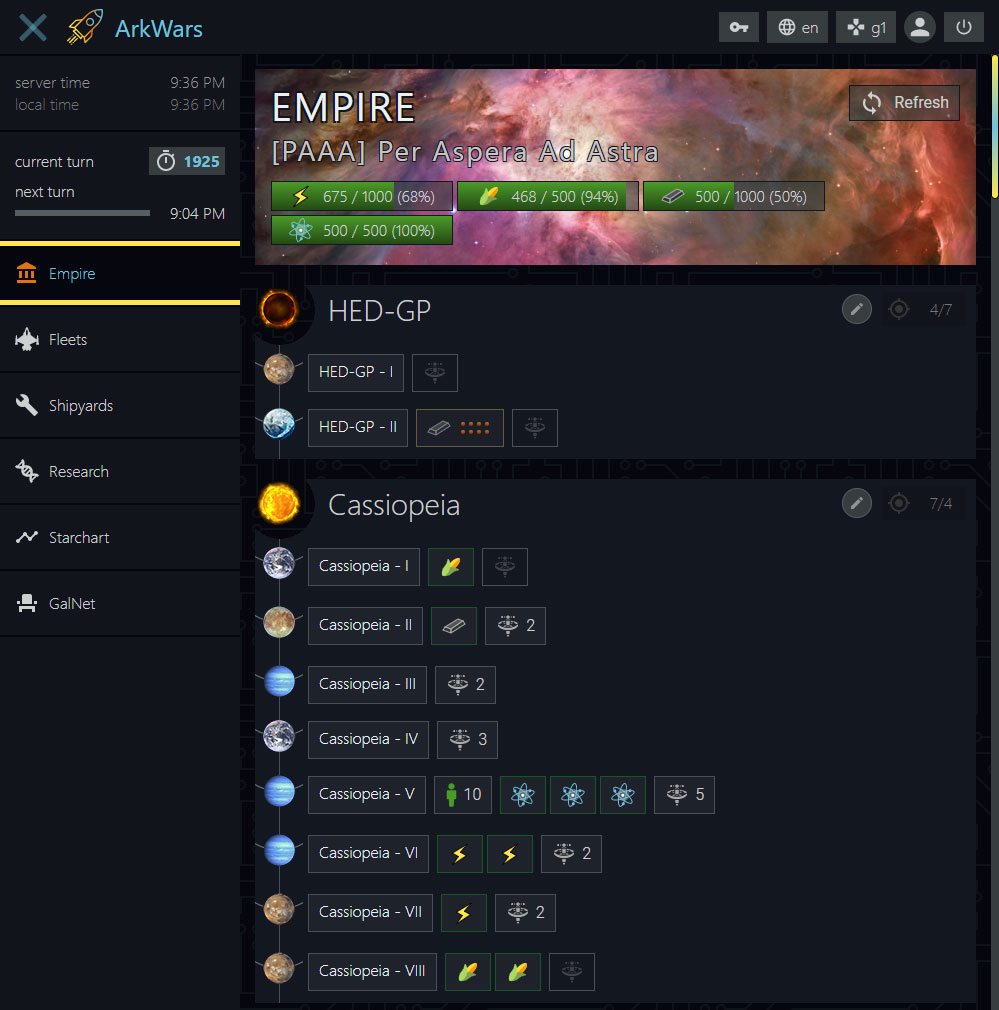
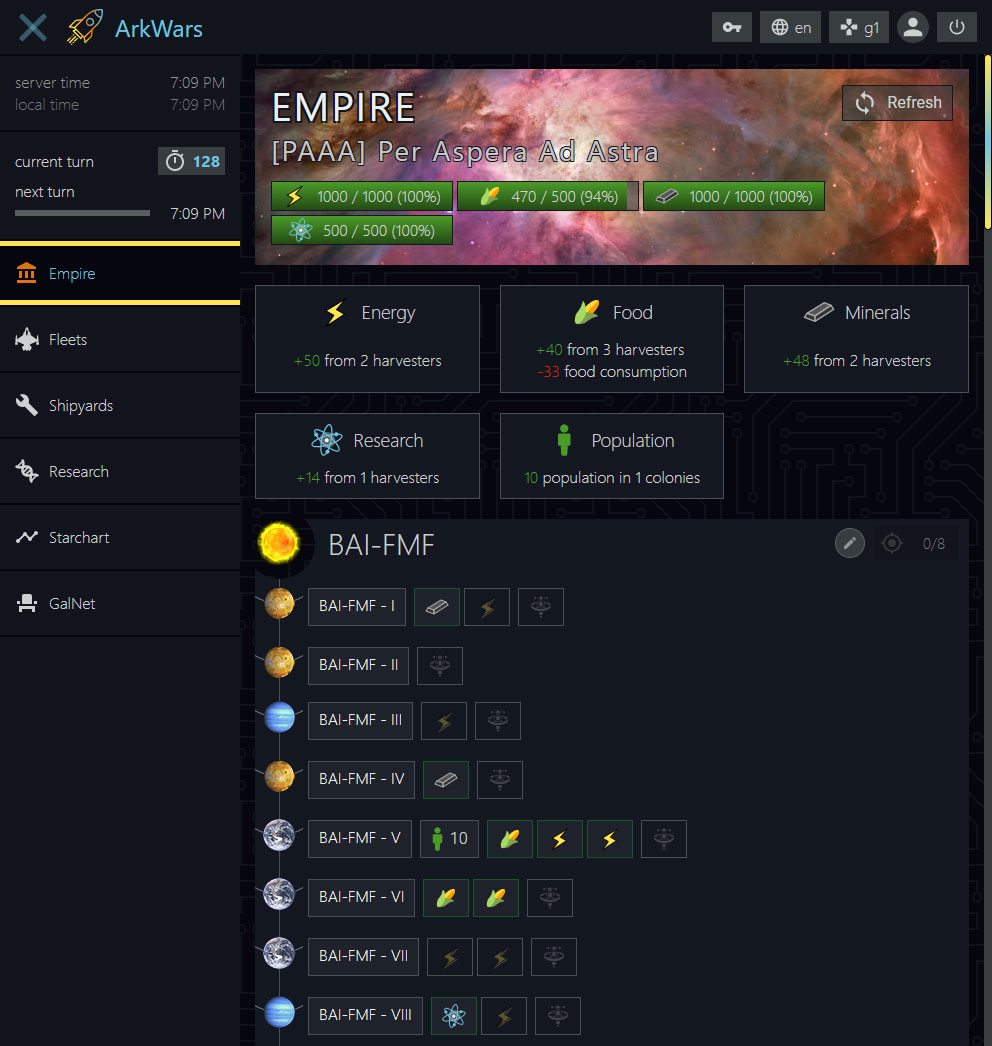
added starting colony population to the planet with the most resources: - when a player enlists to a game - `db.seed` and `db.reseed`

diff --git a/internals/npm/db.seed.js b/internals/npm/db.seed.js
@@ -32,7 +32,8 @@ const map = require("../mockdata/mapData");
 const stars = map.stars;
 const planets = map.planets;
 let playerHomeSystems = [];
-
+let pdus = [];
+let harvesters = [];
 
 /*
  * seed database with mock json data
@@ -69,27 +70,17 @@ const seedDatabase = async () => {
  * since maxplayers are determined by available homeSystems (which depends on size and distance)
  * we need to assign them now that stars have been created
  */
-logger.info(
-    `[node] modifying maxplayers for ${chalk.red(games.length)} Games.`
-);
+logger.info(`[node] modifying maxplayers for ${chalk.red(games.length)} Games.`);
 games.forEach(game => {
-    let gameStars = stars.filter(
-        star => star.homeSystem && star.game === game._id
-    );
+    let gameStars = stars.filter(star => star.homeSystem && star.game === game._id);
     game.maxPlayers = gameStars.length;
-    logger.info(
-        `game ${chalk.red("g" + game.number)} set to ${chalk.yellow(
-            gameStars.length
-        )} maxplayers`
-    );
+    logger.info(`game ${chalk.red("g" + game.number)} set to ${chalk.yellow(gameStars.length)} maxplayers`);
 });
 
 /*
  * assign homeSystems to players. this is normally done during enlisting.
  */
-logger.info(
-    `[node] selecting homesystems for ${chalk.red(players.length)} Players.`
-);
+logger.info(`[node] selecting homesystems for ${chalk.red(players.length)} Players.`);
 players.forEach(player => {
     // available stars as homesystem have
     const gameStars = stars.filter(
@@ -101,67 +92,30 @@ players.forEach(player => {
     const homeSystem = seed.assignRandomStar(gameStars);
     playerHomeSystems.push(homeSystem);
     logger.info(
-        `[node] chosen Star ${chalk.yellow(
-            homeSystem.name
-        )} for player ${chalk.red("[" + player.ticker + "]")} ${chalk.cyan(
-            player.name
-        )}`
+        `[node] chosen Star ${chalk.yellow(homeSystem.name)} for player ${chalk.red(
+            "[" + player.ticker + "]"
+        )} ${chalk.cyan(player.name)}`
     );
-    stars.forEach( function(star) {
-        if (
-            player.game === star.game &&
-            star._id === homeSystem._id
-        ) {
+    stars.forEach(function(star) {
+        if (player.game === star.game && star._id === homeSystem._id) {
             star.owner = player._id;
         }
     });
 });
 
-
 /*
- * add random harvesters for testing purposes
+ * add colony to player home systems
  */
-let harvesters = [];
-let pdus = [];
-//playerHomeSystems.forEach( star => {
-//    let starPlanets = planets.filter( planet => planet.star === star._id && planet.resources.length);
-//    const numHarvesters = Math.floor(starPlanets.length / 2);
-//    for (let i = 0; i < numHarvesters; i++ ) {
-//        const randomIndex = Math.floor(Math.random() * starPlanets.length);
-//        const randomPlanet = starPlanets[randomIndex];
-//        let harvester = {
-//            planet: randomPlanet._id,
-//            game: randomPlanet.game,
-//            owner: star.owner,
-//            resourceType: randomPlanet.resources[0].resourceType,
-//            turnsUntilComplete: Math.random() > 0.4 ? 0 : Math.floor(Math.random() * 6)
-//        };
-//        logger.info(`[mockdata] created ${chalk.red(harvester.resourceType)} harvester for star ${chalk.yellow(star.name)} - ${randomPlanet.orbitalIndex}`);
-//        // add PDUs
-//        //const numPdus = Math.floor(Math.random() * 16);
-//        //for (let j = 0; j < numPdus; j++) {
-//        //    let randomType = "";
-//        //    let rolled = Math.random();
-//        //    if (rolled < 0.25) randomType="laser";
-//        //    else if (rolled < 0.50) randomType="plasma";
-//        //    else if (rolled < 0.75) randomType="railgun";
-//        //    else randomType="missile";
-//        //    let pdu = {
-//        //        game: randomPlanet.game,
-//        //        planet: randomPlanet._id,
-//        //        owner: star.owner,
-//        //        pduType: randomType, // tmp
-//        //        turnsUntilComplete: Math.random() > 0.7 ? 0 : Math.floor(Math.random() * 10 + 1)
-//        //    };
-//        //    pdus.push(pdu);
-//        //}
-//        harvesters.push(harvester);
-//        starPlanets.splice(randomIndex, 1);
-//    }
-//});
-
-logger.info(`[mockdata] prepared ${chalk.yellow(pdus.length)} random PDUs.`);
-
+playerHomeSystems.forEach(system => {
+    let starPlanets = planets.filter(planet => planet.star === system._id && planet.resources.length);
+    let colonyId = seed.selectPlayerStartingColony(starPlanets);
+    planets.forEach(function(planet) {
+        if (planet._id === colonyId) {
+            planet.population = 10;
+            logger.info(`[mockdata] assigned starting colony to planet #${colonyId}`);
+        }
+    });
+});
 
 // http://mongoosejs.com/docs/connections.html#use-mongo-client
 mongoose.connect(process.env.DATABASE);

diff --git a/server/controllers/game/index.js b/server/controllers/game/index.js
@@ -10,6 +10,7 @@ const mongoose = require("mongoose"); // http://mongoosejs.com/
 const strip = require("mongo-sanitize"); // https://www.npmjs.com/package/mongo-sanitize
 const Game = mongoose.model("Game");
 const Player = mongoose.model("Player");
+const Planet = mongoose.model("Planet");
 const User = mongoose.model("User");
 const Star = mongoose.model("Star");
 const logger = require("../../handlers/logger/console");
@@ -136,25 +137,32 @@ exports.enlistUser = async (req, res, next) => {
  * @param {ExpressHTTPRequest} req
  * @param {ExpressHTTPResponse} res
  */
-exports.assignHomeSystem = async (req, res) => {
+exports.prepareHomeSystem = async (req, res) => {
     const game = await Game.findById(req._player.game).populate("stars");
     const availableStars = game.stars.filter(star => {
         return star.homeSystem && !star.owner;
     });
     logger.info(`[App] select random star from ${chalk.yellow(availableStars.length)} available stars.`);
     const homeSystem = seed.assignRandomStar(availableStars);
+    const homePlanets = await Planet.find({star: homeSystem._id});
     logger.info(
         `[App] Decided on using Star ${chalk.cyan(homeSystem.name)} as home system for player ${chalk.magenta(
             req._player.name
         )}.`
     );
-    // TODO: seed home system - assign population to default star
-    const updatatedStar = await Star.findOneAndUpdate(
+    const colony = seed.selectPlayerStartingColony(homePlanets);
+    const starPromise = Star.findOneAndUpdate(
         {_id: homeSystem.id},
         {$set: {owner: req._player._id}},
-        {new: true, runValidators: true, context: "query"}
+        {new: true, runValidators: true}
     );
-    if (updatatedStar) {
+    const planetPromise = Planet.findOneAndUpdate(
+        {_id: colony},
+        {$set: {population: cfg.planets.population.startingColony}},
+        {new: true, runValidators: true}
+    );
+    const [updatedStar, updatedPlanet] = await Promise.all([starPromise, planetPromise]);
+    if (updatedStar && updatedPlanet) {
         logger.success(
             `[App] user ${chalk.red("@" + req.user.username)} enlisted to ${chalk.yellow("g" + req.params.game)}.`
         );
@@ -279,7 +287,7 @@ exports.withdrawEnlistedUser = async (req, res) => {
         await User.findByIdAndUpdate(
             req.user._id,
             {$set: {selectedPlayer: null}},
-            {new: false, runValidators: true, context: "query"}
+            {new: false, runValidators: true}
         );
     }
     // remove ownership of stars if necessary

diff --git a/client/game/Empire/Summary/Resources.vue b/client/game/Empire/Summary/Resources.vue
@@ -13,22 +13,23 @@ export default {
         }
     },
     computed: {
-        resources: function () { return this.$store.getters.playerResources.map(resource => resource.type); },
-        harvesters: function () {
-            return this.$store.getters.harvesters
-                .filter(harvester => harvester.resourceType === this.resType && harvester.isHarvesting);
-        },
         colonies: function () { return this.$store.getters.planets.filter(planet => planet.effectivePopulation > 0); },
         production: function () {
             const baseProduction = harvesterRules.types.find(slot => slot.type === this.resType).baseProduction;
-            return this.harvesters
+            return this.$store.getters.harvesters
+                .filter(harvester => harvester.resourceType === this.resType && harvester.isHarvesting)
                 .map(harvester => Math.floor(harvester.resGrade * baseProduction))
-                .reduce((accumulator, currentValue) => accumulator + currentValue);
+                .reduce((accumulator, currentValue) => { return accumulator + currentValue; }, 0);
         },
         foodConsumption: function () {
-            return this.colonies
+            return this.$store.getters.planets.filter(planet => planet.effectivePopulation > 0)
                 .map(planet => Math.ceil(planet.foodConsumption * planet.population))
-                .reduce((accumulator, currentValue) => accumulator + currentValue);
+                .reduce((accumulator, currentValue) => { return accumulator + currentValue; }, 0);
+        },
+        numHarvesters: function () {
+            return this.$store.getters.harvesters
+                .filter(harvester => harvester.resourceType === this.resType && harvester.isHarvesting)
+                .length;
         }
     },
     components: {
@@ -48,7 +49,7 @@ export default {
         </h3>
         <div class="value">
             <span class="highlight">+{{ production }}</span>
-            {{ $t("summary.resources.production", {num: harvesters.length}) }}
+            {{ $t("summary.resources.production", {num: numHarvesters}) }}
             <span v-if="resType === 'food'">
                 <br>
                 <span class="negative">-{{ foodConsumption }}</span>

diff --git a/server/handlers/game/seed.js b/server/handlers/game/seed.js
@@ -175,7 +175,9 @@ const randomPlanet = (gameId, starId, orbitalIndex, npc) => {
                 resourceType: slot.type, // type of the resource
                 slots, // the number of available extractor slots
                 // exact value of remaining resources on the planet
-                value: parseFloat(Math.random() * (slot.potential[1] - slot.potential[0]) + slot.potential[0]).toFixed(2)
+                value: parseFloat(Math.random() * (slot.potential[1] - slot.potential[0]) + slot.potential[0]).toFixed(
+                    2
+                )
             });
         }
     });
@@ -189,6 +191,30 @@ const randomPlanet = (gameId, starId, orbitalIndex, npc) => {
     };
 };
 
+/*
+ * select the player's starting colongy ================================================================================
+ * count resource slots multiplied with resource grade and use this as score. the planet with the most resources becomes
+ * starting colony.
+ * @param {Array} planets - Array of Mongoose.model("Planet")
+ * @returns {Mongoose.ObjectId}
+ *
+ */
+const selectPlayerStartingColony = (planets) => {
+    planets = planets.map(planet => {
+        return {
+            id: planet._id,
+            score: planet.resources.map(res => res.slots * res.value).reduce((accumulator, currentValue) => {
+                return accumulator + currentValue;
+            }, 0)
+        };
+    }).sort((a, b) => {
+        if (a.score < b.score) return 1;
+        if (a.score > b.score) return -1;
+        return 0;
+    });
+    return planets[0].id;
+};
+
 module.exports = {
     normalizeStars,
     randomType,
@@ -196,5 +222,6 @@ module.exports = {
     getStarName,
     systems,
     assignRandomStar,
-    randomPlanet
+    randomPlanet,
+    selectPlayerStartingColony
 };

diff --git a/client/game/Empire/store/mutations.js b/client/game/Empire/store/mutations.js
@@ -210,6 +210,23 @@ const MUTATIONS = {
                 1
             );
         }
+    },
+
+    /*
+     * Change food consumption of planet
+     * @param {Object} state - Vuex $store.state
+     * @param {Object} payload
+     * @param {Mongoose.ObjectId} payload.planet
+     * @param {Number} payload.consumption
+     */
+    CHANGE_FOOD_CONSUMPTION: (state, payload) => {
+        console.log("committing change food consumption", payload);
+        state.planets.forEach((planet, index) => {
+            if (planet.id === payload.planet) {
+                planet.foodConsumption = payload.consumption;
+                Vue.set(state.planets, index, planet);
+            }
+        });
     }
 };
 

diff --git a/server/routes/game/index.js b/server/routes/game/index.js
@@ -28,7 +28,7 @@ router.post(
     catchErrors(gameController.checkCanEnlist), // 1. check if the game can be enlisted to
     catchErrors(gameController.validateEnlistForm), // 2. validate form data
     catchErrors(gameController.enlistUser), // 3. enlist user
-    catchErrors(gameController.assignHomeSystem) // 4. assign an available home system to the user.
+    catchErrors(gameController.prepareHomeSystem) // 4. assign an available home system to the user.
 );
 
 // switch to game

diff --git a/client/game/Empire/store/actions.js b/client/game/Empire/store/actions.js
@@ -155,6 +155,7 @@ const ACTIONS = {
             .then(response => {
                 if (response.status === 200 && response.data && !response.data.error) {
                     DEBUG && console.log("recieved new data from server ", response.data);
+                    ctx.commit("CHANGE_FOOD_CONSUMPTION", {planet: payload.planet, consumption: payload.consumption});
                 }
                 // server has error message ?
                 if (response.data.error) {

diff --git a/server/config/game/planets.js b/server/config/game/planets.js
@@ -91,6 +91,7 @@ const RULES =  {
     ],
     population: {
         bounds: [0, 20], // min, max
+        startingColony: 10, // population of initial starting colony
         food: {
             bounds: [0, 3], // min, max
             default: 1

diff --git a/docs/CHANGELOG.md b/docs/CHANGELOG.md
@@ -4,6 +4,9 @@
 - [x] Switched from `eslint-plugin-html` to `eslint-plugin-vue`. Reformatted/refactored all .vue components so they follow eslints vue-rules.
 - [x] bumped a few dependencies.
 - [x] added `Summary` to Empire - shows the number of produced resources per type and turn, as well as food consumption and total population. Realized with grid layout because i want to :)
+- [x] added starting colony population to the planet with the most resources:
+  - when a player enlists to a game
+  - `db.seed` and `db.reseed`
 
 `04.02.2018`
 - [x] Refactored Modals so the styles are app-global. Adjusted styling a bit.
